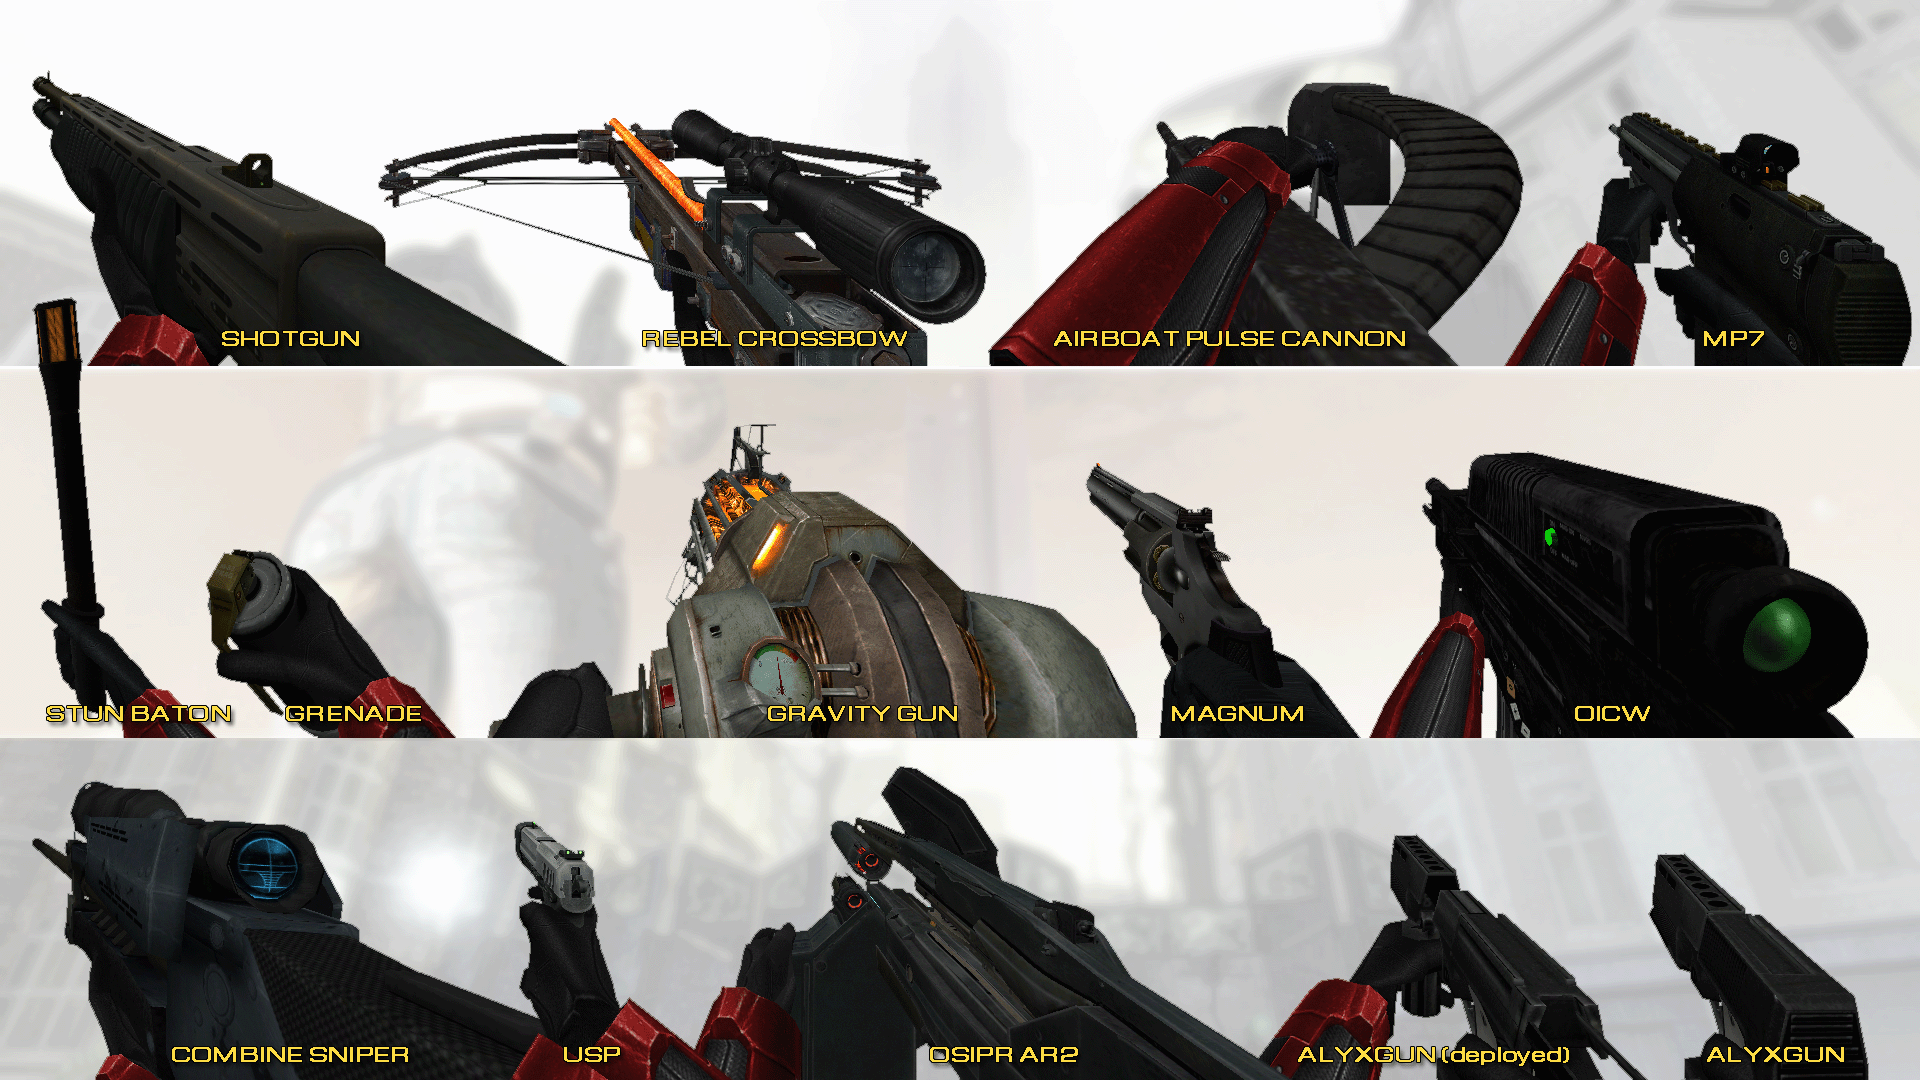
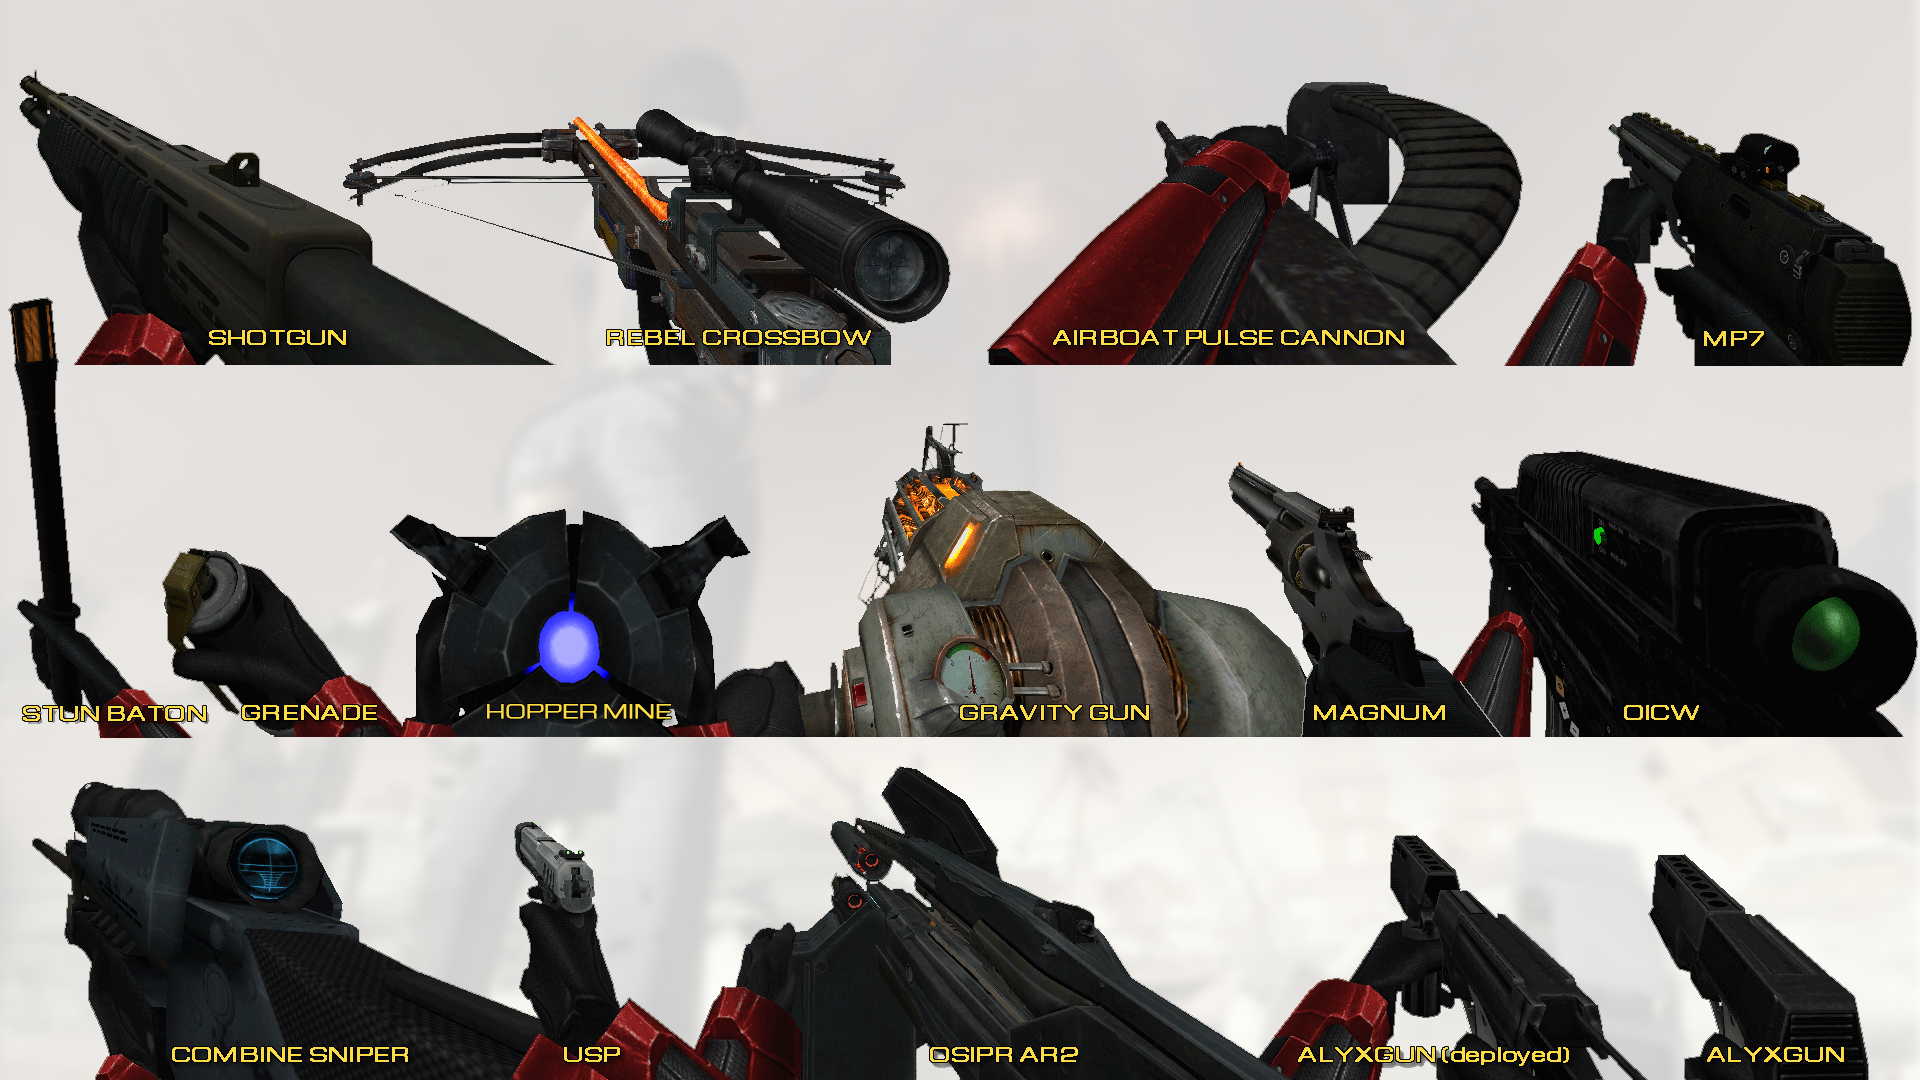
Hoppermine + pulsecannon turret + lemonade attack
- Hoppermine weapon and standalone entity weapon_hl2_hoppermine, env_hl2_hoppermine,
- Pulsecannon can be mounted and be used as a turret via secondary fire. Pulsecannon can also be placed in a map standalone for mappers env_hl2_pulsecannon,
- Frag grenade has a "lemonade" mode which acts like an incendiary grenade. Requires mp_banana 1, 5 frag grenades and clicking tertiary fire

diff --git a/README.md b/README.md
@@ -1,9 +1,13 @@
 ![alt text](https://github.com/Outerbeast/SC-Half-Life-2-Weapons/blob/main/hl2_sven_weaps_poster_v2.png?raw=true)
+
 # Half-Life 2 Weapons Pack
+
 #### Half-Life 2 weapons for Sven Co-op
 
 ### Author: Outerbeast
+
 ### Co-author: Garompa
+
 This weapon pack aims to be an imagining of Sven Co-op 2's weapon loadout,
 and not necessarily a direct one-to-one port of Half-Life 2's loadout.
 Some new weapons have been added to the roster, while some of the originals have modified or extra features added.
@@ -13,15 +17,17 @@ Other planned features such as support for weapon customisation of models, sound
 
 If you find any problems, please post an issue in the project's github repository "Issues" section.
 
-### Weapons:
+### Weapons
+
 ![alt text](https://github.com/Outerbeast/SC-Half-Life-2-Weapons/blob/main/weapon_list.png?raw=true)
 
-Planned weapons for a future update: 
-Annabelle (Father Grigori's rifle), Hopper Mine
+Planned weapons for a future update:
+
+- Manhack
 
 ## Download
 
-### By using this pack, you agree to the following terms:
+### By using this pack, you agree to the following terms
 
 - Have fun with the weapons
 - Provide credit for usage
@@ -37,9 +43,10 @@ Annabelle (Father Grigori's rifle), Hopper Mine
 
 # Installation
 
-#### Warning: using this pack along with other installed weapon packs, be it plugins or map scripts, may result in weapon slot conflicts and will cause weapons to be unselectable.
+#### ⚠Warning: using this pack along with other installed weapon packs, be it plugins or map scripts, may result in weapon slot conflicts and will cause weapons to be unselectable
 
 ## Game/Server Installation
+
 The weapon pack can be installed with a plugin to add to your game or server. It features a in-game menu that you can use to exchange stock weapons for the HL2 weapons.
 
 To Install the weapon pack to your game/server:-
@@ -47,13 +54,14 @@ To Install the weapon pack to your game/server:-
 1) Download and extract the files into `svencoop_addon`
 2) Edit your `default_plugins.txt` file (found in `svencoop`) and add the following:
 
-    ```
-    "plugin"
-	{
-		"name" "HL2Weapons"
-		"script" "HL2Weapons"
-	}
-    ```
+```
+"plugin"
+{
+    "name" "HL2Weapons"
+    "script" "HL2Weapons"
+}
+```
+
 -then save the file.
 
 ### How to equip the weapons
@@ -73,16 +81,18 @@ Example:
 ```!hl2_ammo ar2_altfire 2```
 
 ### Blacklisting maps
+
 There is the option to disable HL2 weapons being available when certain maps are running by adding those map BSP names to the blacklist file `hl2_weapons_mapblacklist.txt` which is located in `scripts/plugins/store`. An example file is included explaining its usage.
 
 ## Map Installation
+
 The script will automatically replace any stock weapons from cfg/world drops/player loadout with the HL2 equivalents.
 
 To install this weapon pack to your map:-
 
-1)  Download and extract the files into `svencoop_addon`, or your own maps files
-2)  Add `map_script hl2_weapons` to your map cfg
-   
+1) Download and extract the files into `svencoop_addon`, or your own maps files
+2) Add `map_script hl2_weapons` to your map cfg
+
     OR
 
     Add a trigger_script entity to your map with the key `"m_iszScriptFile"` set to `"hl2_weapons"`
@@ -91,35 +101,39 @@ To install this weapon pack to your map:-
 
     If you have a main map script, add an `#include` for this script in your main map script header.
 
-3)  You need to register the weapons. Either:
+3) You need to register the weapons. Either:
 
     Add the entity `info_register_hl2weapons` to your map
 
     OR
 
     Execute `HL2_WEAPONS::RegisterWeapons()` in MapInit of the main map script:
+
     ```
     void MapInit()
     {
         HL2_WEAPONS::RegisterWeapons();
     }
     ```
+
     If the map doesn't have a map script, simply create one, name it, and stick the above code into that script file, then add `map_script <your_script_name_here>` to your map's CFG file.
 
-A fgd file is included `hl2_weapons.fgd` to use with a map editor to add weapons and ammunition to your levels.
+A FGD file is included `hl2_weapons.fgd` to use with a map editor to add weapons and ammunition to your levels.
 
 # Credits
+
 - Outerbeast: Project leader, programming
 - Garompa: Graphics (models, textures, icons, visual fx), testing, feedback
 - KernCore, H2: Support
 - DNIO071: Poster
 - SV BOY: Testing
 
-### Special thanks:
+### Special thanks
+
 - aperture_aerospace: OICW model, OICW textures
 - Shadow_RUN, Juniez, LambdaFox: MP7
 - TheManClaw: Revolver HD textures
-- AsIsAy: AR2 w_ and p_ models
+- AsIsAy: AR2 w_and p_ models
 - Pip Cryt: AR2's energy grenade model remake and textures
 - Starfreak22: AR2 viewmodel and ammo
 - SiNiSteR: Alyx Gun animations
@@ -130,10 +144,11 @@ A fgd file is included `hl2_weapons.fgd` to use with a map editor to add weapons
 - Albedo: Shotgun HD retexture
 - alexd_stark: Crossbow HD retexture
 - kalo22: Porting HL2's shotgun, revolver, crossbow, grenade, rpg, slam, gravgun, gauss, muzzleflash effects
-- Garompa: Porting models and textures from HL2 and HL2 beta, reanimating, rigging, uv mapping fixes, hud sprites, events, effects and sounds
+- Garompa: Porting models and textures from HL2 and HL2 beta, reanimating, rigging, uv mapping fixes, hud sprites, events, effects and sounds, lemonade model
 - D.N.I.O. 071, KernCore: Scope base model and animations from INS2 weapon pack for Sven, Remappable Sven Coop default hands
 - D.G.F., R4to0: Scope base model and animations from INS2 weapon pack for Sven
 - Norman The Loli Pirate: Scope base model and animations from INS2 weapon pack for Sven, default Sven Co-op hands
 - Caldwell, Zeropulse: default Sven Co-op hands
+- The303, Zode: lemonade fire zone model
 
 All relevant Half-Life 2 IP used belong to Valve Software. Please do not sue us.
